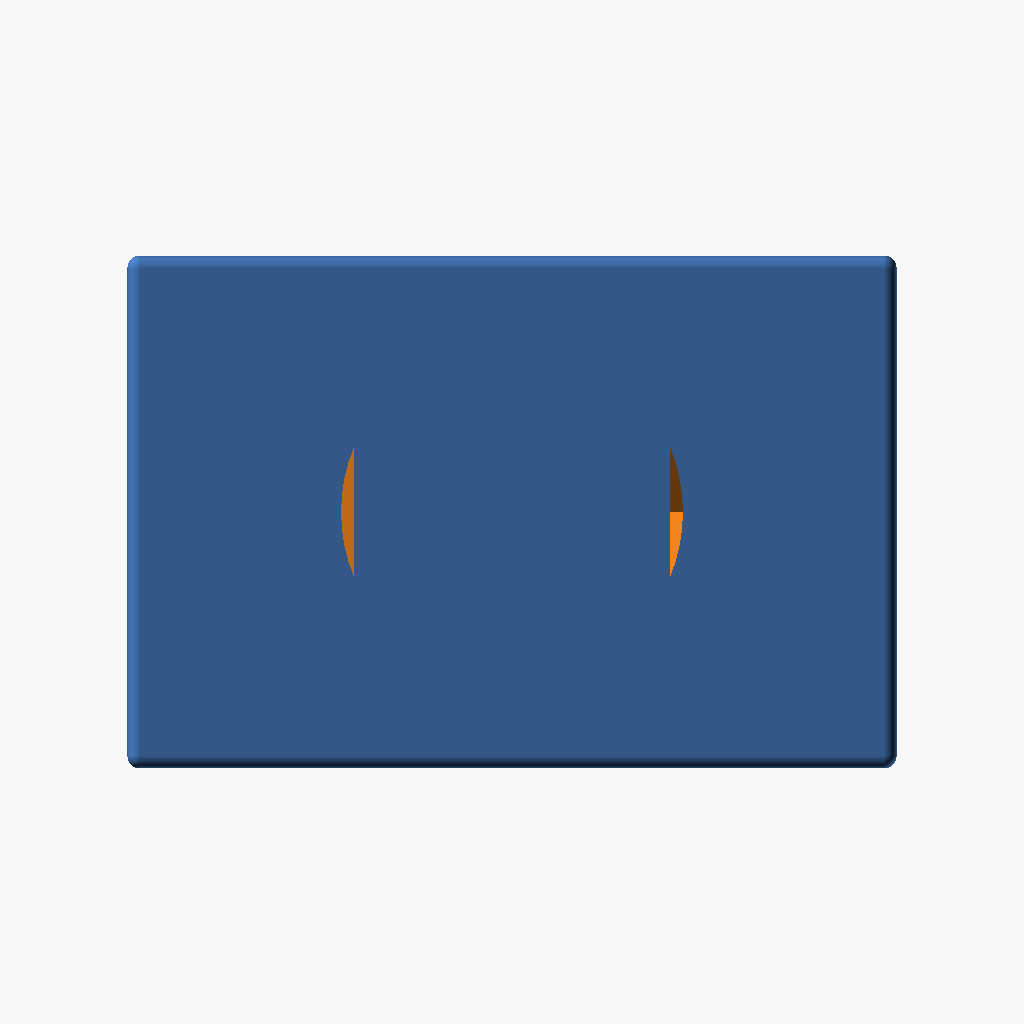
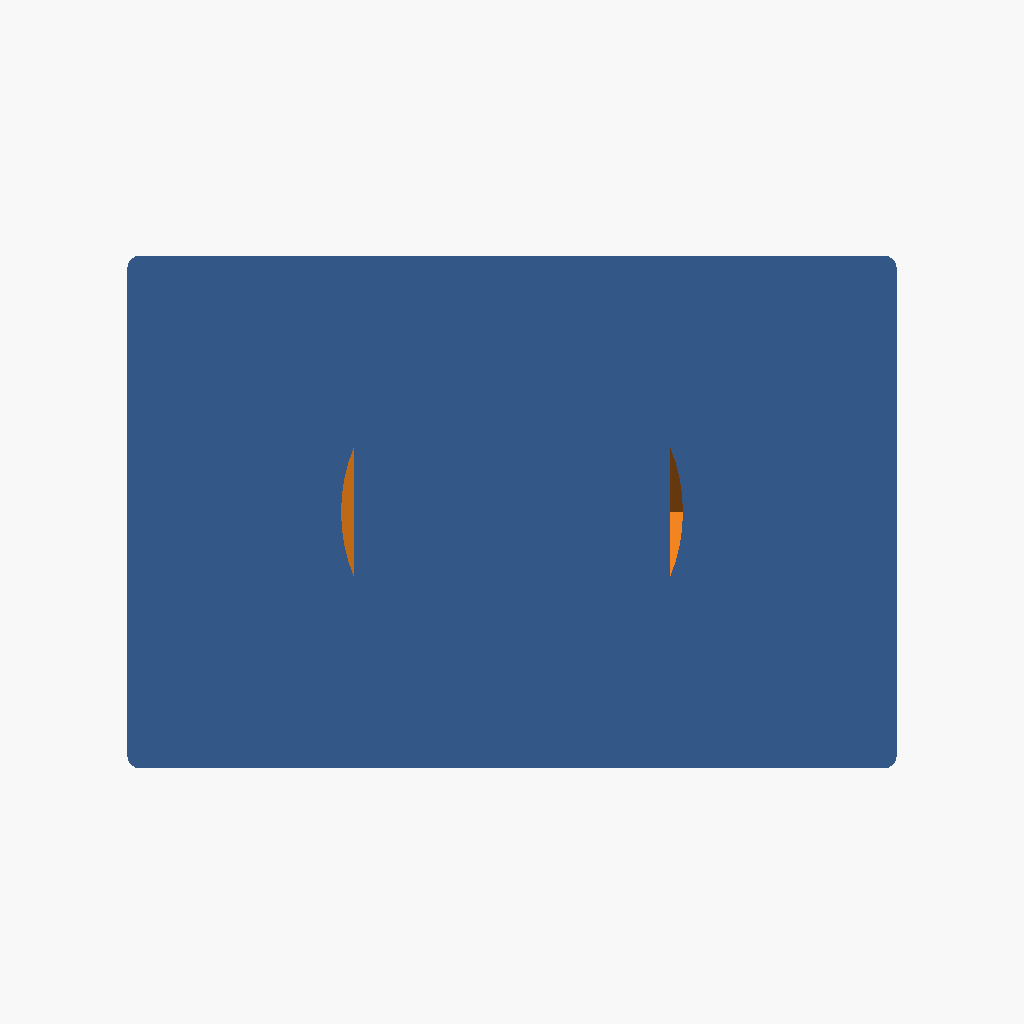
fix(blu): hull-free rounded boxes so BOSL2 v2.0.747 sweep is clean (pst-a9f)
Bumping BOSL2 456fcd8 -> fbcdfdd5 (v2.0.747) regressed 6 wasm param-sweep
cases in two models, all `CGAL error in applyHull(): assertion violation`
at param extremes (wasm-only; desktop CGAL export stayed clean, which is
why the pst-7bs default-params-only gate missed them):
  - blu_black_tank_valve_mount: hex_ftf_left/hex_ftf_right=37.5, slop=0,
    saddle_w=30, wall_t=5
  - blu_flow_meter_mount_80mm: base_w=100

Root cause: both models rounded box edges with BOSL2
`cuboid(rounding=, edges="Z")`, which builds partial-edge rounding as
`hull()` of corner spheres. Under v2.0.747 that degenerate hull
intermittently trips CGAL's randomized convex_hull_3 on the wasm engine,
and no facet count reliably conditions it.

Fix: a local `_rbox` helper rounds the four vertical edges with a pure
2D `offset()` + `linear_extrude` — never calls hull(), so it is
CGAL-robust. Matches the old edges="Z" cuboids exactly. The two base
plates trade a purely-cosmetic top-edge roundover (was edges="ALL"
except BOTTOM) for a square top edge; the saddles cover most of the top
face anyway.

Then re-apply the deferred pin bump: scripts/vendor-libs.sh 456fcd8 ->
fbcdfdd5, and update the libs/README.md pin row + note honestly.

Gate (the pst-9sw lesson): verified with full `npm run test:sweep`, not
default renders. Both models pass the full wasm sweep; unit tests pass;
desktop CGAL export watertight for both; invariants pass. Renders
regenerated for the new square-top-edge geometry.
[…]

Changed region(s): [[0.125, 0.25, 0.875, 0.75]]

diff --git a/libs/README.md b/libs/README.md
@@ -9,7 +9,7 @@ geometry.
 | NopSCADlib                  | Mechanical + project utilities, vitamins         | `c9baa0e`  | menu only |
 | threads-scad                | ISO metric threads, bolts, nuts, washers         | `4ae9aeb`  | menu only |
 | MCAD                        | General-purpose shape / fastener helpers         | `bd0a7ba`  | menu only |
-| BOSL2                       | Attachment / transform system; broad toolkit     | `456fcd8`  | ✅        |
+| BOSL2                       | Attachment / transform system; broad toolkit     | `fbcdfdd5` | ✅        |
 | gridfinity-rebuilt-openscad | Gridfinity bins, baseplates, lite variants (MIT) | `910e22d`  | ✅        |
 | QuackWorks                  | Multiboard / Multiconnect accessory generators   | `6123129`  | ✅        |
 
@@ -26,10 +26,9 @@ BOSL2 is opt-in (R6 permits); added as a dependency for Multiboard work.
 QuackWorks is **CC BY-NC-SA 4.0** — fine for personal use, derived parts
 cannot be sold.
 
-**BOSL2 pin note (pst-9sw, 2026-07-21):** pin **stays** at `456fcd8`
-(2024-09-22). QuackWorks stays at `6123129` (still upstream HEAD). The
-*original* reason for the hold is gone, but a new one replaced it — see the
-end of this note.
+**BOSL2 pin note (pst-a9f, 2026-08-13):** pin is now `fbcdfdd5` (v2.0.747).
+QuackWorks stays at `6123129` (still upstream HEAD). Both holds that kept this
+at `456fcd8` are now dissolved — the history below is retained for context.
 
 History: st-kls pinned BOSL2 *back* to `456fcd8` because PR #1475 (`ae73c6d`)
 tightened `attachable()` to assert `is_finite(spin)`, and two QuackWorks
@@ -48,17 +47,23 @@ catalog references either vector-spin call site now, so `is_finite(spin)` is
 moot. That migration is what this change lands, and it is green on the current
 pin: full sweep 720 passed / 20 skipped / 0 failed.
 
-**The bump itself is still blocked, for a new and different reason.** Moving to
-`fbcdfdd5` (v2.0.747) *with* the migration in place regresses 6 wasm sweep
-cases that pass on `456fcd8` — `blu_black_tank_valve_mount` (`hex_ftf_left`/
-`hex_ftf_right=37.5`, `slop=0`, `saddle_w=30`, `wall_t=5`) and
+**The second blocker — the wasm hull regression — is now fixed (pst-a9f).**
+Moving to `fbcdfdd5` (v2.0.747) *with* the migration in place used to regress 6
+wasm sweep cases that passed on `456fcd8` — `blu_black_tank_valve_mount`
+(`hex_ftf_left`/`hex_ftf_right=37.5`, `slop=0`, `saddle_w=30`, `wall_t=5`) and
 `blu_flow_meter_mount_80mm` (`base_w=100`), all `CGAL error in applyHull():
 assertion violation`. Both are BOSL2 hull consumers, neither is touched by the
-migration, and desktop CGAL export stays clean — the failure is wasm-only at
-param extremes. A default-params-only check (pst-7bs) called this bump clean
-and was wrong: **gate BOSL2 bumps with `npm run test:sweep`.** Until those 2
-models' hull usage is fixed, the pin holds — which also means mitufy's
-openConnect receivers (st-kls, pst-yr1) are still waiting on it.
+migration, and desktop CGAL export stayed clean — the failure was wasm-only at
+param extremes (a default-params-only check, pst-7bs, called the bump clean and
+was wrong: **gate BOSL2 bumps with `npm run test:sweep`.**). pst-a9f removed the
+offending hull: those models rounded their box edges with BOSL2
+`cuboid(rounding=, edges="Z")`, which builds partial-edge rounding as `hull()`
+of corner spheres and — under v2.0.747 — intermittently trips CGAL's randomized
+`convex_hull_3` on the wasm engine. A local `_rbox` helper now rounds the four
+vertical edges with a pure 2D `offset()`+`linear_extrude` (no `hull()`); the
+base plates trade a purely-cosmetic top-edge roundover for a square top edge.
+Full `npm run test:sweep` is green on `fbcdfdd5`, which unblocks mitufy's
+openConnect receivers (st-kls, pst-yr1, pst-qh2).
 
 **Local patches (st-79a, 2026-07-10):** `scripts/vendor-libs.sh` applies
 `scripts/patches/<lib>/*.patch` after checkout; the `.vendor-sha` marker
